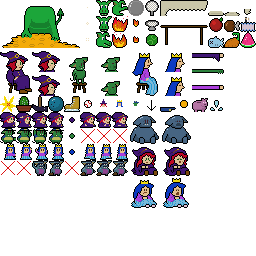
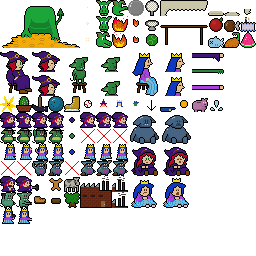
cobbling contest

Changed region(s): [[0.0, 0.6875, 0.5, 0.875]]

diff --git a/src/game/battle/battle_cobbling.c b/src/game/battle/battle_cobbling.c
@@ -3,12 +3,38 @@
 
 #include "game/bellacopia.h"
 
+#define END_COOLDOWN 1.0
+#define STAGE_LIMIT 16 /* If you want to win, you'll always stage exactly two things. But for silliness's sake, you can go much higher. */
+#define CPU_MOVETIME_SLOW 0.500
+#define CPU_MOVETIME_FAST 0.125
+#define CPU_MOVETIME_VARIANCE 1.100 /* >1 */
+#define CPU_HEADSTART_SLOW 0.500
+#define CPU_HEADSTART_FAST 0.250
+
 struct battle_cobbling {
   uint8_t handicap;
   uint8_t players;
   void (*cb_end)(int outcome,void *userdata);
   void *userdata;
-  int choice;
+  int outcome;
+  double end_cooldown;
+  
+  struct player {
+    int who;
+    int human;
+    int x,y; // Center of the hero tile.
+    uint8_t tileid; // Idle hero tile. +1 is swinging the hammer.
+    uint8_t xform;
+    uint8_t stagev[STAGE_LIMIT];
+    int stagec;
+    int pvinput;
+    double hammerclock;
+    double hammertime;
+    int shoec;
+    double moveclock;
+    double movetimelo,movetimehi; // Random at each move, so CPU players of equal handicap will tend not to tie.
+    double skill; // Only relevant to CPU players, and if you get down it, we actually only need during init.
+  } playerv[2];
 };
 
 #define CTX ((struct battle_cobbling*)ctx)
@@ -18,6 +44,43 @@ struct battle_cobbling {
  
 static void _cobbling_del(void *ctx) {
   free(ctx);
+}
+
+/* Init player.
+ */
+ 
+static void player_init(void *ctx,struct player *player,int human,int appearance) {
+  if (player==CTX->playerv) {
+    player->who=0;
+    player->x=FBW/3;
+    player->skill=1.0-CTX->handicap/255.0;
+  } else {
+    player->who=1;
+    player->x=(FBW*2)/3;
+    player->xform=EGG_XFORM_XREV;
+    player->skill=CTX->handicap/255.0;
+  }
+  if (player->human=human) {
+    player->pvinput=EGG_BTN_UP|EGG_BTN_DOWN|EGG_BTN_SOUTH;
+  } else {
+    player->moveclock=CPU_MOVETIME_SLOW*(1.0-player->skill)+CPU_MOVETIME_FAST*player->skill;
+    player->movetimehi=player->moveclock*CPU_MOVETIME_VARIANCE;
+    player->movetimelo=player->moveclock/CPU_MOVETIME_VARIANCE;
+    player->moveclock=CPU_HEADSTART_SLOW*(1.0-player->skill)+CPU_HEADSTART_FAST*player->skill;
+  }
+  switch (appearance) {
+    case 0: { // Coblin
+        player->tileid=0xc0;
+      } break;
+    case 1: { // Dot
+        player->tileid=0xb0;
+      } break;
+    case 2: { // Princess
+        player->tileid=0xd0;
+      } break;
+  }
+  player->y=FBH>>1;
+  player->hammertime=0.250;//TODO probly should vary with handicap
 }
 
 /* New.
@@ -35,50 +98,187 @@ static void *_cobbling_init(
   CTX->players=players;
   CTX->cb_end=cb_end;
   CTX->userdata=userdata;
+  CTX->outcome=-2;
+  
+  switch (CTX->players) {
+    case NS_players_cpu_cpu: {
+        player_init(ctx,CTX->playerv+0,0,2);
+        player_init(ctx,CTX->playerv+1,0,0);
+      } break;
+    case NS_players_cpu_man: {
+        player_init(ctx,CTX->playerv+0,0,0);
+        player_init(ctx,CTX->playerv+1,2,2);
+      } break;
+    case NS_players_man_cpu: {
+        player_init(ctx,CTX->playerv+0,1,1);
+        player_init(ctx,CTX->playerv+1,0,0);
+      } break;
+    case NS_players_man_man: {
+        player_init(ctx,CTX->playerv+0,1,1);
+        player_init(ctx,CTX->playerv+1,2,2);
+      } break;
+    default: _cobbling_del(ctx); return 0;
+  }
+  
   return ctx;
+}
+
+/* Add something to the stage.
+ */
+ 
+static void player_add_stage(void *ctx,struct player *player,uint8_t tileid) {
+  if (player->stagec>=STAGE_LIMIT) {
+    bm_sound(RID_sound_reject);
+    return;
+  }
+  player->stagev[player->stagec++]=tileid;
+  bm_sound(RID_sound_collect);
+}
+
+/* Whack the stage.
+ */
+ 
+static void player_whack(void *ctx,struct player *player) {
+  int valid=0;
+  if (player->stagec==2) {
+    int leatherc=0,solec=0,otherc=0;
+    const uint8_t *q=player->stagev;
+    int i=player->stagec;
+    for (;i-->0;q++) {
+      if (*q==0xb3) leatherc++;
+      else if (*q==0xc3) solec++;
+      else otherc++;
+    }
+    if ((leatherc==1)&&(solec==1)&&(otherc==0)) valid=1;
+  }
+  player->stagec=0;
+  if (valid) {
+    bm_sound(RID_sound_whack);
+    player->shoec++;
+  } else {
+    bm_sound(RID_sound_reject);
+    //TODO visual rejection
+  }
+  player->hammerclock=player->hammertime;
+}
+
+/* Update human player.
+ */
+ 
+static void player_update_man(void *ctx,struct player *player,double elapsed,int input) {
+  if (input!=player->pvinput) {
+    if ((input&EGG_BTN_UP)&&!(player->pvinput&EGG_BTN_UP)) player_add_stage(ctx,player,0xb3); // Up for leather.
+    if ((input&EGG_BTN_DOWN)&&!(player->pvinput&EGG_BTN_DOWN)) player_add_stage(ctx,player,0xc3); // Down for sole.
+    if ((input&EGG_BTN_SOUTH)&&!(player->pvinput&EGG_BTN_SOUTH)) player_whack(ctx,player); // And South to whack them together.
+    player->pvinput=input;
+  }
+}
+
+/* Update CPU player.
+ */
+
+static void player_update_cpu(void *ctx,struct player *player,double elapsed) {
+  if ((player->moveclock-=elapsed)<=0.0) {
+    player->moveclock+=player->movetimelo+((rand()&0xffff)*(player->movetimehi-player->movetimelo))/65535.0;
+    switch (player->stagec) {
+      case 0: player_add_stage(ctx,player,0xb3); break;
+      case 1: player_add_stage(ctx,player,0xc3); break;
+      case 2: player_whack(ctx,player); break;
+    }
+  }
 }
 
 /* Update.
  */
  
 static void _cobbling_update(void *ctx,double elapsed) {
-  if ((g.input[0]&EGG_BTN_LEFT)&&!(g.pvinput[0]&EGG_BTN_LEFT)) { if (--(CTX->choice)<-1) CTX->choice=1; }
-  if ((g.input[0]&EGG_BTN_RIGHT)&&!(g.pvinput[0]&EGG_BTN_RIGHT)) { if (++(CTX->choice)>1) CTX->choice=-1; }
-  if (CTX->cb_end&&(g.input[0]&EGG_BTN_SOUTH)&&!(g.pvinput[0]&EGG_BTN_SOUTH)) {
-    bm_sound(RID_sound_uiactivate);
-    CTX->cb_end(CTX->choice,CTX->userdata);
-    CTX->cb_end=0;
+
+  if (CTX->outcome>-2) {
+    if (CTX->end_cooldown>0.0) {
+      CTX->end_cooldown-=elapsed;
+    } else if (CTX->cb_end) {
+      CTX->cb_end(CTX->outcome,CTX->userdata);
+      CTX->cb_end=0;
+    }
+    return;
   }
+  
+  if (g.input[0]&EGG_BTN_AUX2) { CTX->outcome=1; return; }//XXX
+  
+  struct player *player=CTX->playerv;
+  int i=2;
+  for (;i-->0;player++) {
+    if (player->hammerclock>0.0) {
+      player->hammerclock-=elapsed;
+      continue;
+    }
+    if (player->human) player_update_man(ctx,player,elapsed,g.input[player->human]);
+    else player_update_cpu(ctx,player,elapsed);
+  }
+  
+  // First to three wins, because shoes always come in threes.
+  // Ties are technically possible.
+  if (CTX->playerv[0].shoec>=3) {
+    CTX->end_cooldown=END_COOLDOWN;
+    if (CTX->playerv[1].shoec>=3) CTX->outcome=0;
+    else CTX->outcome=1;
+  } else if (CTX->playerv[1].shoec>=3) {
+    CTX->end_cooldown=END_COOLDOWN;
+    CTX->outcome=-1;
+  }
+}
+
+/* Render player.
+ */
+ 
+static void player_render(void *ctx,struct player *player) {
+  if (player->hammerclock>0.0) {
+    graf_tile(&g.graf,player->x,player->y,player->tileid+1,player->xform);
+    int hx=player->x;
+    if (player->xform) hx-=NS_sys_tilesize; else hx+=NS_sys_tilesize;
+    graf_tile(&g.graf,hx,player->y,0xb2,player->xform);
+  } else {
+    graf_tile(&g.graf,player->x,player->y,player->tileid,player->xform);
+  }
+  
+  const int stagespacing=3;
+  int stagex=player->x+(player->xform?-NS_sys_tilesize:NS_sys_tilesize);
+  int stagey=player->y;
+  uint8_t *stagetile=player->stagev;
+  int i=player->stagec;
+  for (;i-->0;stagetile++,stagey-=stagespacing) graf_tile(&g.graf,stagex,stagey,*stagetile,0);
+  
+  int dx=player->xform?-12:12;
+  int shoex=stagex+(player->xform?-NS_sys_tilesize:NS_sys_tilesize);
+  int shoey=player->y;
+  for (i=player->shoec;i-->0;shoex+=dx) graf_tile(&g.graf,shoex,shoey,0xc2,player->xform);
 }
 
 /* Render.
  */
  
 static void _cobbling_render(void *ctx) {
-  graf_fill_rect(&g.graf,0,0,FBW,FBH,0x808080ff);
-  int y=FBH/3;
-  int boxh=20;
-  int boxw=20;
-  int y1=y+boxh+1;
-  int xv[3]={
-    (FBW>>2)-(boxw>>1),
-    (FBW>>1)-(boxw>>1),
-    ((FBW*3)>>2)-(boxw>>1),
-  };
-  graf_fill_rect(&g.graf,xv[0],y,boxw,boxh,0xff0000ff);
-  graf_fill_rect(&g.graf,xv[1],y,boxw,boxh,0x404040ff);
-  graf_fill_rect(&g.graf,xv[2],y,boxw,boxh,0x00ff00ff);
-  switch (CTX->choice) {
-    case -1: graf_fill_rect(&g.graf,xv[0],y1,boxw,boxh,0xffffffff); break;
-    case  0: graf_fill_rect(&g.graf,xv[1],y1,boxw,boxh,0xffffffff); break;
-    case  1: graf_fill_rect(&g.graf,xv[2],y1,boxw,boxh,0xffffffff); break;
-  }
+
+  // Background.
+  const uint32_t light=0xa09080ff;
+  const uint32_t dark= 0x402010ff;
+  const int horizon=FBH>>1;
+  graf_gradient_rect(&g.graf,0,0,FBW,horizon,dark,dark,light,light);
+  graf_gradient_rect(&g.graf,0,horizon,FBW,FBH-horizon,light,light,dark,dark);
+  
+  graf_set_image(&g.graf,RID_image_battle_goblins);
+  player_render(ctx,CTX->playerv+0);
+  player_render(ctx,CTX->playerv+1);
+  
+  // I made graphics imaging this whole supply-chain decoration.
+  // Cows slide into the factory and hides slide out, sliding all the way to above the heroes. Mutatis mutandi trees to soles.
+  // But that seems a little ridiculous now.
 }
 
 /* Type definition.
  */
  
-const struct battle_type battle_type_cobbling={//TODO
+const struct battle_type battle_type_cobbling={
   .name="cobbling",
   .strix_name=57,
   .no_article=0,

diff --git a/src/game/battle/battle_apples.c b/src/game/battle/battle_apples.c
@@ -78,7 +78,7 @@ static void _apples_render(void *ctx) {
 /* Type definition.
  */
  
-const struct battle_type battle_type_apples={//TODO
+const struct battle_type battle_type_apples={
   .name="apples",
   .strix_name=58,
   .no_article=0,

diff --git a/README.md b/README.md
@@ -32,6 +32,7 @@ Requires [Egg](https://github.com/aksommerville/egg2) to build.
 - - And might like to add a Dot-vs-(CPU)Princess side quest after rescuing her. "Hey let's play that one game again".
 - - [ ] Distinguish "difficulty" from "handicap". How hard is the game, and how skilled the players, these are orthogonal concerns.
 - - Do finish the goblin games first as is, then update.
+- - [ ] After this refactor, rewrite the placeholder and incorporate all the boilerplate I've been repeating on each goblin game.
 - [x] After a wee change to hero->blocked, now she jitters sometimes on first touching a wall.
 - - Due to off-axis correction. New policy: Off-axis correction counts as movement. You're not "blocked" until fudge brings you to a standstill.
 - [x] If you get killed in the goblins' cave before escaping, you should spawn in the jail, not at home.
@@ -69,7 +70,8 @@ Requires [Egg](https://github.com/aksommerville/egg2) to build.
 - [ ] Battle wrapper: Issue a warning before timing out. And 60 s feels too long. Gather some stats on how long they are actually taking.
 - [ ] Princess could still use some attention. Sticks too long on corners, and continues moving while hookshotted. (these are tolerable, just not perfect).
 - [ ] Princess: Can we give her a rotating arm, and she always points toward the castle? We already have logic like that for the compass.
-- [ ] Does using the telescope kill the Princess? I suspect it will. Mitigate.
+- [ ] Does using the telescope kill the Princess? I suspect it will. Mitigate. ...it does. It also changes song if you pass over a map with the `song` command.
+- - Can we just mark her as "never delete due to distance"?
 - [ ] Toll Troll and the Mayor's Bridge should be passes thru a solid mass, so you can't broom over them.
 
 - Second batch of minigames: The Eleven Goblin Games
@@ -83,7 +85,7 @@ Requires [Egg](https://github.com/aksommerville/egg2) to build.
 - [x] gs- Gobbling: Goblin
 - [x] gs- Erudition: Snoblin
 - [x] gs- Crying: Soblin
-- [ ] gs- Cobbling: Coblin
+- [x] gs- Cobbling: Coblin
 - [ ] gs- Apples: Boblin
 
 - [ ] Crypto side quest.
